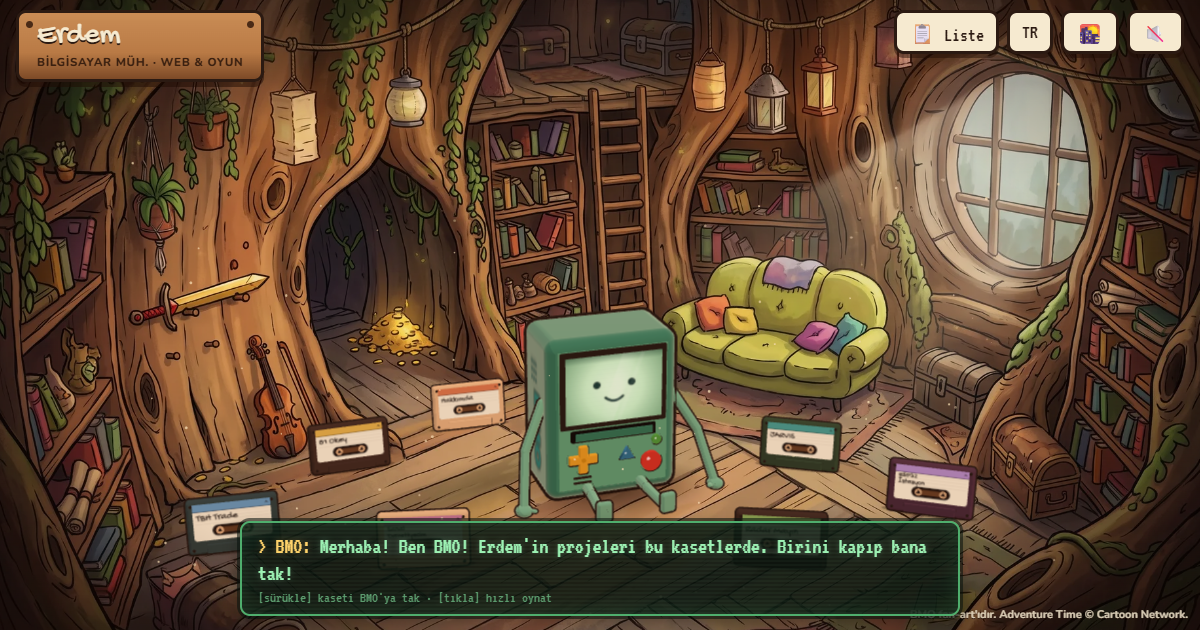
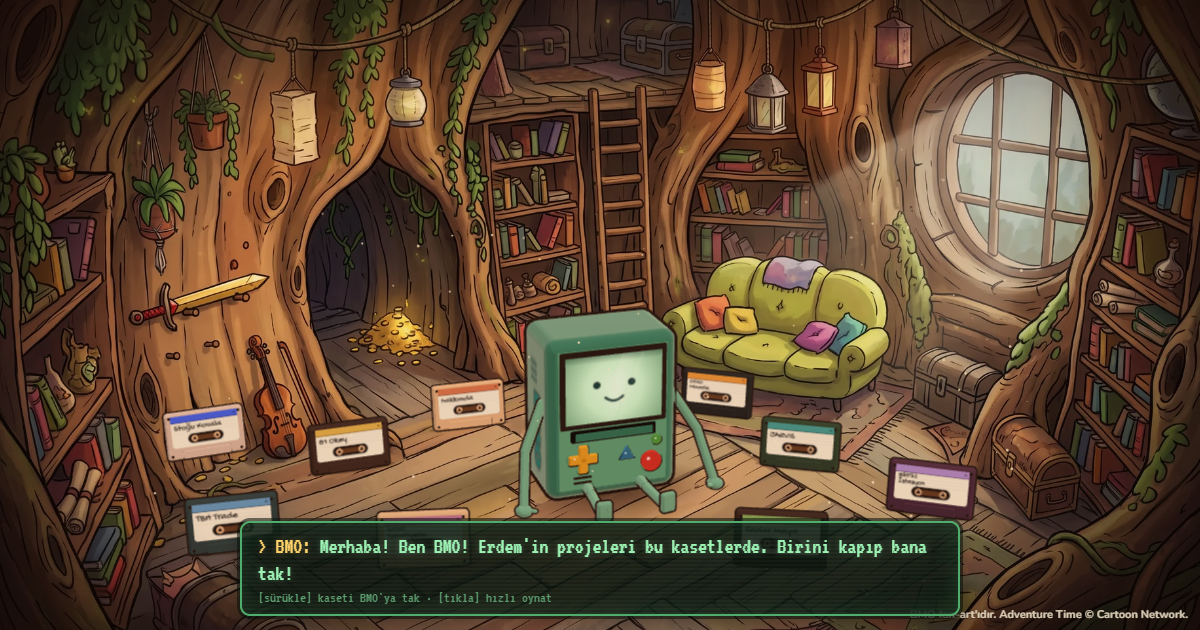
Sol üstteki tabela kaldırıldı (site adı ekran okuyucu için gizli h1'de); paylaşım görseli yenilendi

diff --git a/src/styles/ui.css b/src/styles/ui.css
@@ -41,17 +41,8 @@
   .speech small { display: none; }
 }
 
-/* --- üst çubuk --- */
-.topbar { position: fixed; left: 0; right: 0; top: 0; z-index: 25; display: flex; justify-content: space-between; align-items: flex-start; gap: 12px;
-  padding: calc(10px + env(safe-area-inset-top, 0px)) max(16px, env(safe-area-inset-right, 0px)) 0 max(16px, env(safe-area-inset-left, 0px)); pointer-events: none; }
-.topbar > * { pointer-events: auto; }
-.sign { transform-origin: 50% 0; animation: sway 6s ease-in-out infinite; }
-@keyframes sway { 50% { transform: rotate(1.6deg); } }
-.plank { position: relative; background: linear-gradient(180deg, #c98c55, var(--wood) 60%, var(--wood-dk)); border: 3px solid var(--ink); border-radius: 10px; padding: 8px 18px 9px; box-shadow: 0 5px 0 rgba(30, 10, 2, .5); }
-.plank::before, .plank::after { content: ""; position: absolute; top: 8px; width: 7px; height: 7px; border-radius: 50%; background: #4a2a16; }
-.plank::before { left: 7px; } .plank::after { right: 7px; }
-.plank h1 { margin: 0; font-family: var(--f-hand); font-weight: 400; font-size: 30px; line-height: 1; color: var(--paper); text-shadow: 0 2px 0 var(--ink); }
-.plank p { margin: 3px 0 0; font-size: 11.5px; font-weight: 800; letter-spacing: .06em; text-transform: uppercase; color: #3a2010; }
+/* --- üst şerit: görünmez, yalnız çentik payı (BMO ekranı açılınca üst sınır) --- */
+.topbar { position: fixed; left: 0; right: 0; top: 0; height: env(safe-area-inset-top, 0px); pointer-events: none; }
 
 /* --- altbilgi --- */
 .fanart { position: fixed; right: 12px; bottom: 8px; z-index: 8; margin: 0; font-size: 11px; font-weight: 700; color: var(--paper); opacity: .85; text-shadow: 0 1px 0 var(--ink); pointer-events: none; }
@@ -68,7 +59,5 @@ body.zoomed .fanart { display: none; }
 .noscript { position: fixed; inset: 0; z-index: 200; padding: 24px; background: var(--paper); color: var(--ink); }
 
 @media (max-width: 700px), (orientation: portrait) {
-  .plank { padding: 6px 12px 7px; } .plank h1 { font-size: 24px; } .plank p { font-size: 10px; }
   .fanart { display: none; }
 }
-@media (prefers-reduced-motion: reduce) { .sign { animation: none; } }

diff --git a/index.html b/index.html
@@ -24,9 +24,10 @@
 <body>
   <div class="loader" id="loader" aria-hidden="true"><div class="loader-screen"><span>LOADING</span><i><b id="loaderBar"></b></i></div></div>
 
-  <!-- üst tabela; ayar tuşları yok (ses, gün saati, dil, liste BMO'nun tuşlarında ve açık ekranın köşesinde) -->
+  <!-- Görünür tabela ya da ayar tuşu yok: oda arayüzün kendisi (ses, gün saati, dil, liste BMO'nun tuşlarında).
+       Başlık ekran okuyucu ve arama motorları için; şerit yalnız çentik payı kadar (açık ekranın üst sınırı). -->
   <header class="topbar" id="topbar">
-    <div class="sign"><div class="plank"><h1>Erdem</h1><p data-i18n="tagline"></p></div></div>
+    <h1 class="sr-only">Erdem · <span data-i18n="tagline"></span></h1>
   </header>
 
   <main class="room" id="room">

diff --git a/tests/e2e/keys.spec.js b/tests/e2e/keys.spec.js
@@ -16,10 +16,13 @@ async function rgbAt(page, box) {
   return px;
 }
 
-test("sağ üstte ayar tuşu yok; tabela duruyor", async ({ page }) => {
+test("üstte tabela ve ayar tuşu yok; site adı ekran okuyucu için başlıkta duruyor", async ({ page }) => {
   await ready(page);
+  await expect(page.locator(".sign")).toHaveCount(0);
   await expect(page.locator("#topbar button")).toHaveCount(0);
-  await expect(page.locator("#topbar .sign")).toBeVisible();
+  const h1 = page.locator("#topbar h1");
+  await expect(h1).toContainText("Erdem");
+  expect((await h1.boundingBox()).width).toBeLessThanOrEqual(1);
 });
 
 for (const [w, h] of [[1440, 900], [390, 844]]) {

diff --git a/src/ui/listview.js b/src/ui/listview.js
@@ -39,7 +39,7 @@ export function renderList(projects, profile, lang, { no3d = false } = {}) {
 }
 
 /* liste açıkken arkadaki her şey etkileşimsiz: odak ve tıklama listeden kaçmasın */
-const BEHIND = ["topbar", "room", "tray", "screenUi", "screenBackdrop", "fanart"];
+const BEHIND = ["room", "tray", "screenUi", "screenBackdrop", "fanart"];
 
 export function initListview({ el, state, bus, projects, profile }) {
   let openedInApp = false, lastFocus = null, no3d = false;
